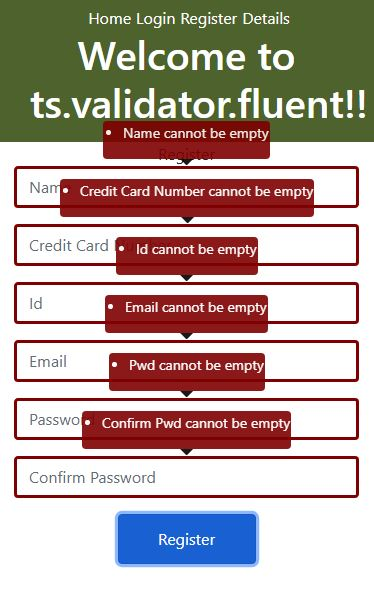
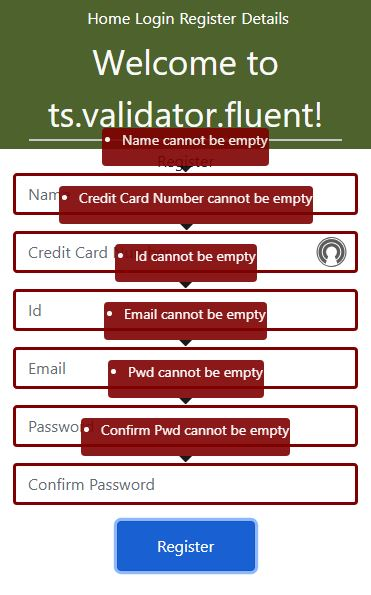
added animation to header.

diff --git a/src/app/app.component.scss b/src/app/app.component.scss
@@ -12,3 +12,264 @@ a {
 ul li {
     margin-left: 5px;
 }
+
+.animate {
+    font-size: 35px;
+    margin: 5px 0 0;
+    border-bottom: 2px solid #ccc;
+}
+
+.animate span {
+    display: inline-block;
+}
+
+.animate span:nth-of-type(2) {
+    animation-delay: .05s;
+}
+.animate span:nth-of-type(3) {
+    animation-delay: .1s;
+}
+.animate span:nth-of-type(4) {
+    animation-delay: .15s;
+}
+.animate span:nth-of-type(5) {
+    animation-delay: .2s;
+}
+.animate span:nth-of-type(6) {
+    animation-delay: .25s;
+}
+.animate span:nth-of-type(7) {
+    animation-delay: .3s;
+}
+.animate span:nth-of-type(8) {
+    animation-delay: .35s;
+}
+.animate span:nth-of-type(9) {
+    animation-delay: .4s;
+}
+.animate span:nth-of-type(10) {
+    animation-delay: .45s;
+}
+.animate span:nth-of-type(11) {
+    animation-delay: .5s;
+}
+.animate span:nth-of-type(12) {
+    animation-delay: .55s;
+}
+.animate span:nth-of-type(13) {
+    animation-delay: .6s;
+}
+.animate span:nth-of-type(14) {
+    animation-delay: .65s;
+}
+.animate span:nth-of-type(15) {
+    animation-delay: .7s;
+}
+.animate span:nth-of-type(16) {
+    animation-delay: .75s;
+}
+.animate span:nth-of-type(17) {
+    animation-delay: .8s;
+}
+.animate span:nth-of-type(18) {
+    animation-delay: .85s;
+}
+.animate span:nth-of-type(19) {
+    animation-delay: .9s;
+}
+.animate span:nth-of-type(20) {
+    animation-delay: .95s;
+}
+
+/* Animation One */
+
+.one span {
+    color: #24a8e6;
+    opacity: 0;
+    transform: translate(-150px, -50px) rotate(-180deg) scale(3);
+    animation: revolveScale .4s forwards;
+}
+
+@keyframes revolveScale {
+    60% {
+        transform: translate(20px, 20px) rotate(30deg) scale(.3);
+    }
+
+    100% {
+        transform: translate(0) rotate(0) scale(1);
+        opacity: 1;
+    }
+}
+
+
+/* Animation Two */
+
+.two span {
+    color: #a5cb21;
+    opacity: 0;
+    transform: translate(200px, -100px) scale(2);
+    animation: ballDrop .3s forwards;
+}
+
+@keyframes ballDrop {
+    60% {
+        transform: translate(0, 20px) rotate(-180deg) scale(.5);
+    }
+
+    100% {
+        transform: translate(0) rotate(0deg) scale(1);
+        opacity: 1;
+    }
+}
+
+
+/* Animation Three */
+
+
+.three span {
+    color: #b10e81;
+    opacity: 0;
+    transform: translate(-300px, 0) scale(0);
+    animation: sideSlide .5s forwards;
+}
+
+@keyframes sideSlide {
+    60% {
+        transform: translate(20px, 0) scale(1);
+        color: #b10e81;
+    }
+
+    80% {
+        transform: translate(20px, 0) scale(1);
+        color: #b10e81;
+    }
+
+    99% {
+        transform: translate(0) scale(1.2);
+        color: #00f0ff;
+    }
+
+    100% {
+        transform: translate(0) scale(1);
+        opacity: 1;
+        color: #b10e81;
+    }
+}
+
+
+/* Animation Four */
+
+
+.four span {
+    color: #8d6a00;
+    opacity: 0;
+    transform: translate(0, -100px) rotate(360deg) scale(0);
+    animation: revolveDrop .3s forwards;
+}
+
+
+@keyframes revolveDrop {
+    30% {
+        transform: translate(0, -50px) rotate(180deg) scale(1);
+    }
+
+    60% {
+        transform: translate(0, 20px) scale(.8) rotate(0deg);
+    }
+
+    100% {
+        transform: translate(0) scale(1) rotate(0deg);
+        opacity: 1;
+    }
+}
+
+
+/* Animation Five */
+
+
+.five span {
+    color: #dd3f0f;
+    opacity: 0;
+    transform: translate(0, -100px) rotate(360deg) scale(0);
+    animation: dropVanish .5s forwards;
+}
+
+
+@keyframes dropVanish {
+    30% {
+        transform: translate(0, -50px) rotate(180deg) scale(1);
+    }
+
+    50% {
+        transform: translate(0, 20px) scale(.8) rotate(0deg);
+        opacity: 1;
+    }
+
+    80% {
+        transform: translate(-100px, -100px) scale(1.5) rotate(-180deg);
+        opacity: 0;
+    }
+
+    100% {
+        transform: translate(0) scale(1) rotate(0deg);
+        opacity: 1;
+    }
+}
+
+
+
+/* Animation Six */
+
+
+.six span {
+    color: white;
+    opacity: 0;
+    transform: rotate(-180deg) translate(150px, 0);
+    animation: twister .5s forwards;
+}
+
+
+@keyframes twister {
+    10% {
+        opacity: 1;
+    }
+    100% {
+        transform: rotate(0deg) translate(0);
+        opacity: 1;
+    }
+}
+
+
+
+/* Animation Seven */
+
+
+.seven span {
+    color: #348c04;
+    opacity: 0;
+    transform: translate(-150px, 0) scale(.3);
+    animation: leftRight .5s forwards;
+}
+
+
+@keyframes leftRight {
+    40% {
+        transform: translate(50px, 0) scale(.7);
+        opacity: 1;
+        color: #348c04;
+    }
+
+    60% {
+        color: #0f40ba;
+    }
+
+    80% {
+        transform: translate(0) scale(2);
+        opacity: 0;
+    }
+
+    100% {
+        transform: translate(0) scale(1);
+        opacity: 1;
+    }
+}    

diff --git a/src/app/app.component.html b/src/app/app.component.html
@@ -8,10 +8,17 @@
                             <li class="horizontal"><a routerLink="/register">Register</a></li>
                             <li class="horizontal"><a routerLink="/details" >Details</a></li>
                     </ul>
-
-                    <h1 style="text-align:center">
+                    
+                    <div class="animate six">
+                            <span>W</span><span>e</span><span>l</span><span>c</span><span>o</span><span>m</span><span>e</span><span>&nbsp;</span>
+                            <span>t</span><span>o</span><br/>
+                            <span>t</span><span>s</span>
+                            <span>.</span><span>v</span><span>a</span><span>l</span><span>i</span><span>d</span><span>a</span><span>t</span><span>o</span><span>r</span>
+                            <span>.</span><span>f</span><span>l</span><span>u</span><span>e</span><span>n</span><span>t</span><span>!</span>                        
+                    </div>                    
+                    <!-- <h1 style="text-align:center">
                         {{title}}
-                    </h1>                    
+                    </h1>                     -->
             </div>            
         </div>
     </nav>    
